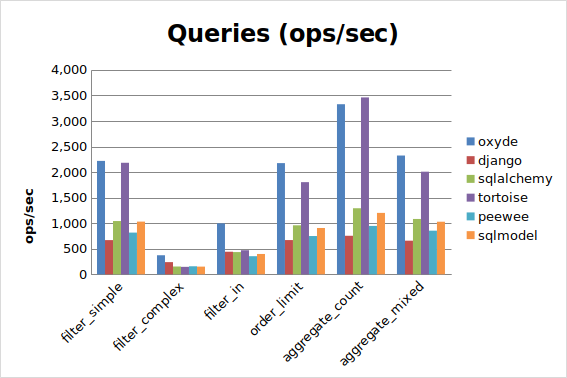
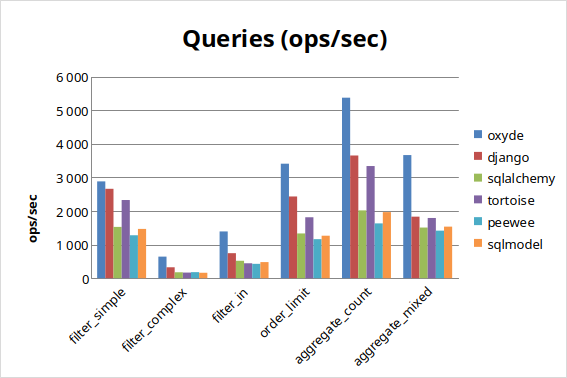
Updated charts and benchmarks.md

Changed region(s): [[0.03, 0.1746, 0.9894, 0.9603], [0.2998, 0.0582, 0.7196, 0.1455]]

diff --git a/docs/advanced/benchmarks.md b/docs/advanced/benchmarks.md
@@ -1,7 +1,7 @@
 # Benchmarks
 
 !!! info "Benchmark Date"
-    These benchmarks were run on **January 23, 2026** with Oxyde 0.3.1.
+    These benchmarks were run on **March 7, 2026** with Oxyde 0.5.0.
     Results may vary depending on hardware and database configuration.
 
 ## Summary (average ops/sec)
@@ -10,36 +10,36 @@
 
 | Rank | ORM | Avg ops/sec |
 |------|-----|-------------|
-| 1 | Oxyde | 923.7 |
-| 2 | Tortoise | 747.6 |
-| 3 | Piccolo | 745.9 |
-| 4 | SQLAlchemy | 335.6 |
-| 5 | SQLModel | 324.0 |
-| 6 | Peewee | 61.0 |
-| 7 | Django | 58.5 |
+| 1 | Oxyde | 1,433 |
+| 2 | Piccolo | 956 |
+| 3 | Tortoise | 896 |
+| 4 | Django | 733 |
+| 5 | SQLAlchemy | 455 |
+| 6 | SQLModel | 433 |
+| 7 | Peewee | 79 |
 
 ### MySQL
 
 | Rank | ORM | Avg ops/sec |
 |------|-----|-------------|
-| 1 | Oxyde | 1037.0 |
-| 2 | Tortoise | 1019.2 |
-| 3 | SQLAlchemy | 434.1 |
-| 4 | SQLModel | 420.1 |
-| 5 | Peewee | 370.5 |
-| 6 | Django | 312.8 |
+| 1 | Oxyde | 1,284 |
+| 2 | Django | 816 |
+| 3 | Tortoise | 783 |
+| 4 | SQLAlchemy | 523 |
+| 5 | SQLModel | 503 |
+| 6 | Peewee | 467 |
 
 ### SQLite
 
 | Rank | ORM | Avg ops/sec |
 |------|-----|-------------|
-| 1 | Tortoise | 1476.6 |
-| 2 | Oxyde | 1232.0 |
-| 3 | Peewee | 449.4 |
-| 4 | Django | 434.0 |
-| 5 | SQLAlchemy | 341.5 |
-| 6 | SQLModel | 336.3 |
-| 7 | Piccolo | 295.1 |
+| 1 | Oxyde | 2,575 |
+| 2 | Tortoise | 1,884 |
+| 3 | Django | 1,283 |
+| 4 | SQLAlchemy | 592 |
+| 5 | SQLModel | 560 |
+| 6 | Peewee | 553 |
+| 7 | Piccolo | 468 |
 
 ---
 
@@ -49,51 +49,49 @@
 
 ![PostgreSQL CRUD](../img/benchmarks/postgresql_crud.png)
 
-| Test | Oxyde | Django | SQLAlchemy | Tortoise | Piccolo | Peewee | SQLModel |
-|------|-------|--------|------------|----------|---------|--------|----------|
-| insert_single | 1685.7 | 121.8 | 747.7 | 1828.6 | 1748.3 | 111.0 | 684.3 |
-| insert_bulk_100 | 290.0 | 84.8 | 189.0 | 325.9 | 241.0 | 90.7 | 133.1 |
-| select_pk | 2979.7 | 121.0 | 921.7 | 2275.7 | 2462.1 | 135.7 | 897.0 |
-| select_filter | 182.6 | 71.2 | 156.7 | 107.5 | 134.6 | 78.5 | 132.7 |
-| update_single | 2310.8 | 120.5 | 707.5 | 1854.4 | 1968.0 | 116.5 | 681.7 |
-| update_bulk | 1515.9 | 114.6 | 680.5 | 1506.3 | 1659.3 | 131.3 | 652.6 |
-| delete_single | 354.5 | 69.5 | 290.8 | 367.3 | 365.0 | 96.4 | 281.7 |
+| Test | asyncpg | Oxyde | Django | SQLAlchemy | Tortoise | Piccolo | Peewee | SQLModel |
+|------|---------|-------|--------|------------|----------|---------|--------|----------|
+| insert_single | 761 | 655 | 640 | 536 | 750 | 714 | 142 | 536 |
+| insert_bulk_100 | 416 | 361 | 251 | 187 | 257 | 204 | 99 | 128 |
+| select_pk | 7,053 | 6,412 | 2,926 | 1,594 | 3,946 | 3,915 | 171 | 1,472 |
+| select_filter | 813 | 308 | 154 | 168 | 144 | 133 | 94 | 142 |
+| update_single | 745 | 768 | 622 | 523 | 693 | 746 | 143 | 523 |
+| update_bulk | 649 | 652 | 600 | 501 | 647 | 665 | 140 | 499 |
+| delete_single | 287 | 280 | 171 | 262 | 274 | 281 | 105 | 258 |
 
 ### Query Operations
 
 ![PostgreSQL Queries](../img/benchmarks/postgresql_queries.png)
 
-| Test | Oxyde | Django | SQLAlchemy | Tortoise | Piccolo | Peewee | SQLModel |
-|------|-------|--------|------------|----------|---------|--------|----------|
-| filter_simple | 2472.4 | 119.8 | 894.2 | 2230.7 | 2283.3 | 120.5 | 882.2 |
-| filter_complex | 351.0 | 88.6 | 259.5 | 207.0 | 258.7 | 84.9 | 233.1 |
-| filter_in | 340.5 | 113.0 | 491.8 | 572.4 | 651.8 | 83.5 | 450.4 |
-| order_limit | 2417.8 | 120.2 | 843.7 | 1506.9 | 1900.3 | 113.2 | 849.0 |
-| aggregate_count | 3516.2 | 119.6 | 964.3 | 2564.4 | 2541.0 | 130.9 | 954.1 |
-| aggregate_mixed | 2587.6 | 110.4 | 857.6 | 1820.4 | 868.3 | 127.3 | 898.2 |
+| Test | asyncpg | Oxyde | Django | SQLAlchemy | Tortoise | Piccolo | Peewee | SQLModel |
+|------|---------|-------|--------|------------|----------|---------|--------|----------|
+| filter_simple | 5,698 | 5,088 | 2,801 | 1,502 | 3,544 | 3,564 | 166 | 1,461 |
+| filter_complex | 1,383 | 601 | 287 | 324 | 281 | 268 | 121 | 271 |
+| filter_in | 2,769 | 643 | 642 | 629 | 737 | 680 | 147 | 574 |
+| order_limit | 4,593 | 3,808 | 2,274 | 1,381 | 2,170 | 2,780 | 166 | 1,312 |
+| aggregate_count | 4,559 | 8,042 | 3,855 | 1,655 | 4,414 | 4,637 | 171 | 1,583 |
+| aggregate_mixed | 5,146 | 4,437 | 1,811 | 1,396 | 2,564 | 3,344 | 169 | 1,369 |
 
 ### Relations
 
 ![PostgreSQL Relations](../img/benchmarks/postgresql_relations.png)
 
-| Test | Oxyde | Django | SQLAlchemy | Tortoise | Piccolo | Peewee | SQLModel |
-|------|-------|--------|------------|----------|---------|--------|----------|
-| join_simple | 5.4 | 3.0 | 4.3 | 3.2 | 2.0 | 3.6 | 3.7 |
-| join_filter | 5.8 | 3.2 | 4.5 | 3.4 | 2.1 | 3.7 | 3.9 |
-| prefetch_related | 5.4 | 4.0 | 3.7 | 4.6 | 4.9 | 5.2 | 2.9 |
-| nested_prefetch | 2.0 | 1.1 | 1.8 | 2.9 | 3.1 | 4.2 | 1.6 |
+| Test | asyncpg | Oxyde | Django | SQLAlchemy | Tortoise | Piccolo | Peewee | SQLModel |
+|------|---------|-------|--------|------------|----------|---------|--------|----------|
+| join_simple | 22 | 10 | 3 | 5 | 4 | 2 | 4 | 4 |
+| join_filter | 22 | 10 | 3 | 5 | 4 | 2 | 4 | 4 |
+| prefetch_related | 33 | 4 | 4 | 4 | 6 | 5 | 5 | 3 |
+| nested_prefetch | 25 | 2 | 1 | 2 | 4 | 3 | 4 | 2 |
 
 ### Concurrent Operations
 
 ![PostgreSQL Concurrent](../img/benchmarks/postgresql_concurrent.png)
 
-| Concurrency | Oxyde | Django | SQLAlchemy | Tortoise | Piccolo | Peewee | SQLModel |
-|-------------|-------|--------|------------|----------|---------|--------|----------|
-| 10 | 548.6 | 8.7 | 10.0 | 388.2 | 396.2 | 13.8 | 10.0 |
-| 25 | 247.8 | 3.8 | 5.0 | 153.9 | 168.3 | 5.1 | 4.9 |
-| 50 | 126.8 | 1.9 | 4.6 | 78.8 | 88.8 | 2.6 | 4.5 |
-| 100 | 64.2 | 0.9 | 4.0 | 40.3 | 44.5 | 1.3 | 3.9 |
-| 200 | 31.3 | 0.5 | 3.1 | 19.7 | 21.6 | 0.6 | 3.0 |
+| Concurrency | asyncpg | Oxyde | Django | SQLAlchemy | Tortoise | Piccolo | Peewee | SQLModel |
+|-------------|---------|-------|--------|------------|----------|---------|--------|----------|
+| 10 | 1,151 | 1,151 | 280 | 219 | 542 | 501 | 18 | 215 |
+| 50 | 268 | 242 | 57 | 5 | 116 | 109 | 4 | 5 |
+| 100 | 135 | 119 | 29 | 4 | 57 | 55 | 2 | 4 |
 
 ### Scalability
 
@@ -107,27 +105,49 @@
 
 ![MySQL CRUD](../img/benchmarks/mysql_crud.png)
 
-| Test | Oxyde | Django | SQLAlchemy | Tortoise | Peewee | SQLModel |
-|------|-------|--------|------------|----------|--------|----------|
-| insert_single | 2118.9 | 863.3 | 956.6 | 2754.4 | 934.3 | 977.0 |
-| insert_bulk_100 | 481.6 | 241.4 | 155.7 | 365.1 | 236.7 | 123.6 |
-| select_pk | 3269.4 | 904.6 | 1155.6 | 3350.3 | 925.6 | 1195.4 |
-| select_filter | 196.3 | 146.3 | 80.7 | 66.3 | 82.4 | 78.2 |
-| update_single | 2460.6 | 686.5 | 979.3 | 2556.2 | 947.1 | 917.0 |
-| update_bulk | 1705.7 | 653.5 | 880.0 | 2011.3 | 828.2 | 878.2 |
-| delete_single | 2046.8 | 298.0 | 987.0 | 2335.6 | 867.2 | 951.0 |
+| Test | aiomysql | Oxyde | Django | SQLAlchemy | Tortoise | Peewee | SQLModel |
+|------|----------|-------|--------|------------|----------|--------|----------|
+| insert_single | 769 | 648 | 647 | 568 | 682 | 561 | 531 |
+| insert_bulk_100 | 384 | 312 | 232 | 156 | 243 | 196 | 115 |
+| select_pk | 5,641 | 6,352 | 3,441 | 1,935 | 3,650 | 1,575 | 1,791 |
+| select_filter | 139 | 359 | 180 | 91 | 80 | 93 | 81 |
+| update_single | 728 | 685 | 660 | 570 | 669 | 574 | 527 |
+| update_bulk | 2,174 | 2,048 | 1,745 | 1,149 | 1,834 | 1,289 | 1,204 |
+| delete_single | 684 | 677 | 339 | 566 | 657 | 506 | 529 |
 
 ### Query Operations
 
 ![MySQL Queries](../img/benchmarks/mysql_queries.png)
 
+| Test | aiomysql | Oxyde | Django | SQLAlchemy | Tortoise | Peewee | SQLModel |
+|------|----------|-------|--------|------------|----------|--------|----------|
+| filter_simple | 2,981 | 2,880 | 2,659 | 1,526 | 2,326 | 1,277 | 1,467 |
+| filter_complex | 281 | 642 | 325 | 176 | 166 | 180 | 161 |
+| filter_in | 717 | 1,390 | 744 | 517 | 443 | 426 | 478 |
+| order_limit | 2,752 | 3,405 | 2,430 | 1,331 | 1,812 | 1,162 | 1,264 |
+| aggregate_count | 4,647 | 5,369 | 3,650 | 2,017 | 3,336 | 1,630 | 1,965 |
+| aggregate_mixed | 3,343 | 3,662 | 1,830 | 1,507 | 1,791 | 1,414 | 1,534 |
+
 ### Relations
 
 ![MySQL Relations](../img/benchmarks/mysql_relations.png)
 
+| Test | aiomysql | Oxyde | Django | SQLAlchemy | Tortoise | Peewee | SQLModel |
+|------|----------|-------|--------|------------|----------|--------|----------|
+| join_simple | 4 | 11 | 4 | 3 | 3 | 2 | 2 |
+| join_filter | 4 | 11 | 4 | 3 | 3 | 2 | 3 |
+| prefetch_related | 6 | 12 | 5 | 3 | 3 | 4 | 3 |
+| nested_prefetch | 6 | 8 | 1 | 2 | 2 | 3 | 2 |
+
 ### Concurrent Operations
 
 ![MySQL Concurrent](../img/benchmarks/mysql_concurrent.png)
+
+| Concurrency | aiomysql | Oxyde | Django | SQLAlchemy | Tortoise | Peewee | SQLModel |
+|-------------|----------|-------|--------|------------|----------|--------|----------|
+| 10 | 1,083 | 1,220 | 356 | 253 | 566 | 159 | 238 |
+| 50 | 209 | 235 | 66 | 40 | 110 | 32 | 39 |
+| 100 | 105 | 119 | 37 | 22 | 56 | 16 | 21 |
 
 ### Scalability
 
@@ -141,27 +161,49 @@
 
 ![SQLite CRUD](../img/benchmarks/sqlite_crud.png)
 
-| Test | Oxyde | Django | SQLAlchemy | Tortoise | Piccolo | Peewee | SQLModel |
-|------|-------|--------|------------|----------|---------|--------|----------|
-| insert_single | 3046.0 | 589.3 | 670.2 | 1893.3 | 466.5 | 605.1 | 623.2 |
-| insert_bulk_100 | 631.6 | 260.4 | 31.9 | 448.3 | 176.4 | 259.4 | 29.6 |
-| select_pk | 3252.1 | 1386.6 | 960.2 | 4958.9 | 913.6 | 1548.8 | 941.9 |
-| select_filter | 175.0 | 181.6 | 161.9 | 76.0 | 109.8 | 70.3 | 137.9 |
-| update_single | 3720.8 | 625.8 | 639.8 | 1870.0 | 507.4 | 594.7 | 649.3 |
-| update_bulk | 2485.0 | 1419.5 | 916.8 | 5477.1 | 978.7 | 1703.1 | 925.0 |
-| delete_single | 222.6 | 88.7 | 155.6 | 183.5 | 120.4 | 134.7 | 156.0 |
+| Test | aiosqlite | Oxyde | Django | SQLAlchemy | Tortoise | Piccolo | Peewee | SQLModel |
+|------|-----------|-------|--------|------------|----------|---------|--------|----------|
+| insert_single | 775 | 5,054 | 698 | 568 | 725 | 159 | 158 | 569 |
+| insert_bulk_100 | 622 | 754 | 290 | 75 | 332 | 100 | 120 | 61 |
+| select_pk | 41,600 | 7,503 | 4,531 | 1,929 | 6,015 | 1,588 | 1,958 | 1,874 |
+| select_filter | 1,078 | 284 | 196 | 188 | 82 | 115 | 73 | 156 |
+| update_single | 785 | 8,561 | 707 | 573 | 720 | 161 | 165 | 560 |
+| update_bulk | 13,388 | 7,719 | 6,040 | 1,622 | 8,370 | 1,730 | 2,262 | 1,634 |
+| delete_single | 182 | 229 | 126 | 171 | 181 | 88 | 93 | 169 |
 
 ### Query Operations
 
 ![SQLite Queries](../img/benchmarks/sqlite_queries.png)
 
+| Test | aiosqlite | Oxyde | Django | SQLAlchemy | Tortoise | Piccolo | Peewee | SQLModel |
+|------|-----------|-------|--------|------------|----------|---------|--------|----------|
+| filter_simple | 18,518 | 5,413 | 4,118 | 1,882 | 5,228 | 1,529 | 1,762 | 1,822 |
+| filter_complex | 1,778 | 460 | 315 | 330 | 147 | 196 | 131 | 259 |
+| filter_in | 7,183 | 1,597 | 1,000 | 907 | 580 | 560 | 441 | 762 |
+| order_limit | 12,346 | 4,513 | 3,275 | 1,673 | 3,002 | 1,348 | 1,428 | 1,458 |
+| aggregate_count | 44,023 | 10,514 | 6,304 | 2,136 | 13,832 | 1,805 | 2,208 | 2,082 |
+| aggregate_mixed | 12,986 | 6,482 | 2,508 | 1,749 | 4,512 | 1,489 | 1,880 | 1,667 |
+
 ### Relations
 
 ![SQLite Relations](../img/benchmarks/sqlite_relations.png)
 
+| Test | aiosqlite | Oxyde | Django | SQLAlchemy | Tortoise | Piccolo | Peewee | SQLModel |
+|------|-----------|-------|--------|------------|----------|---------|--------|----------|
+| join_simple | 28 | 7 | 4 | 5 | 3 | 2 | 2 | 4 |
+| join_filter | 29 | 8 | 4 | 5 | 3 | 2 | 2 | 5 |
+| prefetch_related | 44 | 9 | 5 | 4 | 4 | 4 | 3 | 3 |
+| nested_prefetch | 35 | 8 | 1 | 2 | 3 | 3 | 2 | 2 |
+
 ### Concurrent Operations
 
 ![SQLite Concurrent](../img/benchmarks/sqlite_concurrent.png)
+
+| Concurrency | aiosqlite | Oxyde | Django | SQLAlchemy | Tortoise | Piccolo | Peewee | SQLModel |
+|-------------|-----------|-------|--------|------------|----------|---------|--------|----------|
+| 10 | 3,427 | 1,342 | 342 | 204 | 746 | 223 | 303 | 196 |
+| 50 | 722 | 272 | 71 | 37 | 155 | 28 | 60 | 35 |
+| 100 | 362 | 141 | 35 | 19 | 79 | 12 | 30 | 18 |
 
 ### Scalability
 
@@ -173,19 +215,19 @@
 
 ### Mean Latency (ms)
 
-| Test | Oxyde | Django | SQLAlchemy | Tortoise | Piccolo | Peewee | SQLModel |
-|------|-------|--------|------------|----------|---------|--------|----------|
-| insert_single | 0.59 | 8.21 | 1.34 | 0.55 | 0.57 | 9.01 | 1.46 |
-| select_pk | 0.34 | 8.27 | 1.08 | 0.44 | 0.41 | 7.37 | 1.11 |
-| update_single | 0.43 | 8.30 | 1.41 | 0.54 | 0.51 | 8.58 | 1.47 |
+| Test | asyncpg | Oxyde | Django | SQLAlchemy | Tortoise | Piccolo | Peewee | SQLModel |
+|------|---------|-------|--------|------------|----------|---------|--------|----------|
+| insert_single | 1.315 | 1.526 | 1.562 | 1.866 | 1.333 | 1.400 | 7.030 | 1.866 |
+| select_pk | 0.142 | 0.156 | 0.342 | 0.627 | 0.253 | 0.256 | 5.848 | 0.679 |
+| update_single | 1.342 | 1.302 | 1.609 | 1.911 | 1.443 | 1.341 | 7.015 | 1.913 |
 
 ### P99 Latency (ms)
 
-| Test | Oxyde | Django | SQLAlchemy | Tortoise | Piccolo | Peewee | SQLModel |
-|------|-------|--------|------------|----------|---------|--------|----------|
-| insert_single | 1.04 | 23.71 | 2.36 | 0.97 | 0.83 | 24.13 | 2.17 |
-| select_pk | 0.55 | 24.95 | 2.16 | 0.74 | 0.84 | 9.18 | 1.91 |
-| update_single | 0.59 | 20.27 | 2.51 | 0.69 | 0.69 | 24.41 | 1.76 |
+| Test | asyncpg | Oxyde | Django | SQLAlchemy | Tortoise | Piccolo | Peewee | SQLModel |
+|------|---------|-------|--------|------------|----------|---------|--------|----------|
+| insert_single | 1.506 | 6.481 | 1.759 | 2.002 | 1.584 | 1.720 | 7.435 | 2.241 |
+| select_pk | 0.159 | 0.359 | 0.391 | 0.695 | 0.277 | 0.338 | 6.222 | 0.983 |
+| update_single | 1.613 | 1.419 | 5.259 | 5.619 | 1.734 | 1.590 | 7.402 | 2.808 |
 
 ---
 
@@ -193,12 +235,12 @@
 
 Peak memory (MB):
 
-| Test | Oxyde | Django | SQLAlchemy | Tortoise | Piccolo | Peewee | SQLModel |
-|------|-------|--------|------------|----------|---------|--------|----------|
-| insert_single | 52.1 | 65.5 | 57.6 | 43.8 | 41.2 | 59.0 | 66.7 |
-| select_pk | 58.7 | 71.0 | 63.1 | 48.1 | 46.0 | 64.1 | 69.8 |
-| join_simple | 132.6 | 117.4 | 88.2 | 63.0 | 101.8 | 104.8 | 104.4 |
-| nested_prefetch | 151.8 | 184.8 | 116.6 | 93.0 | 106.6 | 111.6 | 129.1 |
+| Test | asyncpg | Oxyde | Django | SQLAlchemy | Tortoise | Piccolo | Peewee | SQLModel |
+|------|---------|-------|--------|------------|----------|---------|--------|----------|
+| insert_single | 38.7 | 52.7 | 66.2 | 58.3 | 51.1 | 41.7 | 59.0 | 65.6 |
+| select_pk | 44.6 | 57.6 | 71.4 | 64.0 | 56.4 | 47.5 | 63.2 | 71.3 |
+| join_simple | 73.8 | 148.9 | 107.6 | 95.6 | 85.7 | 101.2 | 97.9 | 107.7 |
+| nested_prefetch | 80.0 | 149.3 | 161.1 | 114.4 | 122.1 | 103.9 | 103.5 | 127.8 |
 
 ---
 
@@ -209,26 +251,26 @@ Peak memory (MB):
 | CPU | Intel Core i7-11800H @ 2.30GHz |
 | Cores | 2 |
 | RAM | 4 GB |
-| OS | Linux 6.8.0-90-generic |
-| Python | 3.12.12 |
+| OS | Linux 6.17.0-14-generic |
+| Python | 3.12.13 |
 | Container | Docker |
 
 ### Package Versions
 
 | Package | Version |
 |---------|---------|
-| oxyde | 0.3.1 |
+| oxyde | 0.5.0 |
 | asyncpg | 0.31.0 |
-| django | 6.0.1 |
-| sqlalchemy | 2.0.46 |
-| tortoise-orm | 0.25.3 |
-| piccolo | 1.30.0 |
-| peewee | 3.19.0 |
-| sqlmodel | 0.0.31 |
+| django | 6.0.3 |
+| sqlalchemy | 2.0.48 |
+| tortoise-orm | 1.1.6 |
+| piccolo | 1.33.0 |
+| peewee | 4.0.1 |
+| sqlmodel | 0.0.37 |
 
 ### Test Data
 
-- Users: 1000
+- Users: 1,000
 - Posts per user: 20
 
 ---
@@ -242,7 +284,9 @@ Benchmarks are available in a separate repository: [oxyde-benchmarks](https://gi
 - 100 iterations per test
 - 10 warmup iterations
 - Connection pool warmed up before measurements
+- Each ORM tested in isolated subprocess for accurate memory measurement
 - Each ORM tested with recommended async drivers
+- Raw driver baselines (asyncpg, aiomysql, aiosqlite) included for reference
 
 ## Next Steps
 

diff --git a/docs/index.md b/docs/index.md
@@ -77,11 +77,11 @@ Oxyde's Rust core handles SQL generation and query execution, releasing Python's
 
 **Benchmarks vs popular Python ORMs** (avg ops/sec, higher is better):
 
-| Database   | Oxyde | Tortoise | Piccolo | SQLAlchemy | SQLModel | Peewee | Django |
-|------------|-------|----------|---------|------------|----------|--------|--------|
-| PostgreSQL | 924   | 748      | 746     | 336        | 324      | 61     | 59     |
-| MySQL      | 1037  | 1019     | —       | 434        | 420      | 371    | 313    |
-| SQLite     | 1232  | 1477     | 295     | 342        | 336      | 449    | 434    |
+| Database   | Oxyde | Tortoise | Piccolo | Django | SQLAlchemy | SQLModel | Peewee |
+|------------|-------|----------|---------|--------|------------|----------|--------|
+| PostgreSQL | 1,433 | 896      | 956     | 733    | 455        | 433      | 79     |
+| MySQL      | 1,284 | 783      | —       | 816    | 523        | 503      | 467    |
+| SQLite     | 2,575 | 1,884    | 468     | 1,283  | 592        | 560      | 553    |
 
 [:octicons-arrow-right-24: Full benchmark report](advanced/benchmarks.md)
 

diff --git a/README.md b/README.md
@@ -32,11 +32,11 @@
 
 Benchmarks vs popular Python ORMs (avg ops/sec, higher is better):
 
-| Database   | Oxyde | Tortoise | Piccolo | SQLAlchemy | SQLModel | Peewee | Django |
-|------------|-------|----------|---------|------------|----------|--------|--------|
-| PostgreSQL | 924   | 748      | 746     | 336        | 324      | 61     | 59     |
-| MySQL      | 1037  | 1019     | —       | 434        | 420      | 371    | 313    |
-| SQLite     | 1232  | 1477     | 295     | 342        | 336      | 449    | 434    |
+| Database   | Oxyde | Tortoise | Piccolo | Django | SQLAlchemy | SQLModel | Peewee |
+|------------|-------|----------|---------|--------|------------|----------|--------|
+| PostgreSQL | 1,433 | 896      | 956     | 733    | 455        | 433      | 79     |
+| MySQL      | 1,284 | 783      | —       | 816    | 523        | 503      | 467    |
+| SQLite     | 2,575 | 1,884    | 468     | 1,283  | 592        | 560      | 553    |
 
 Full benchmark report: **[Documentation](https://oxyde.fatalyst.dev/latest/advanced/benchmarks/)**
 
